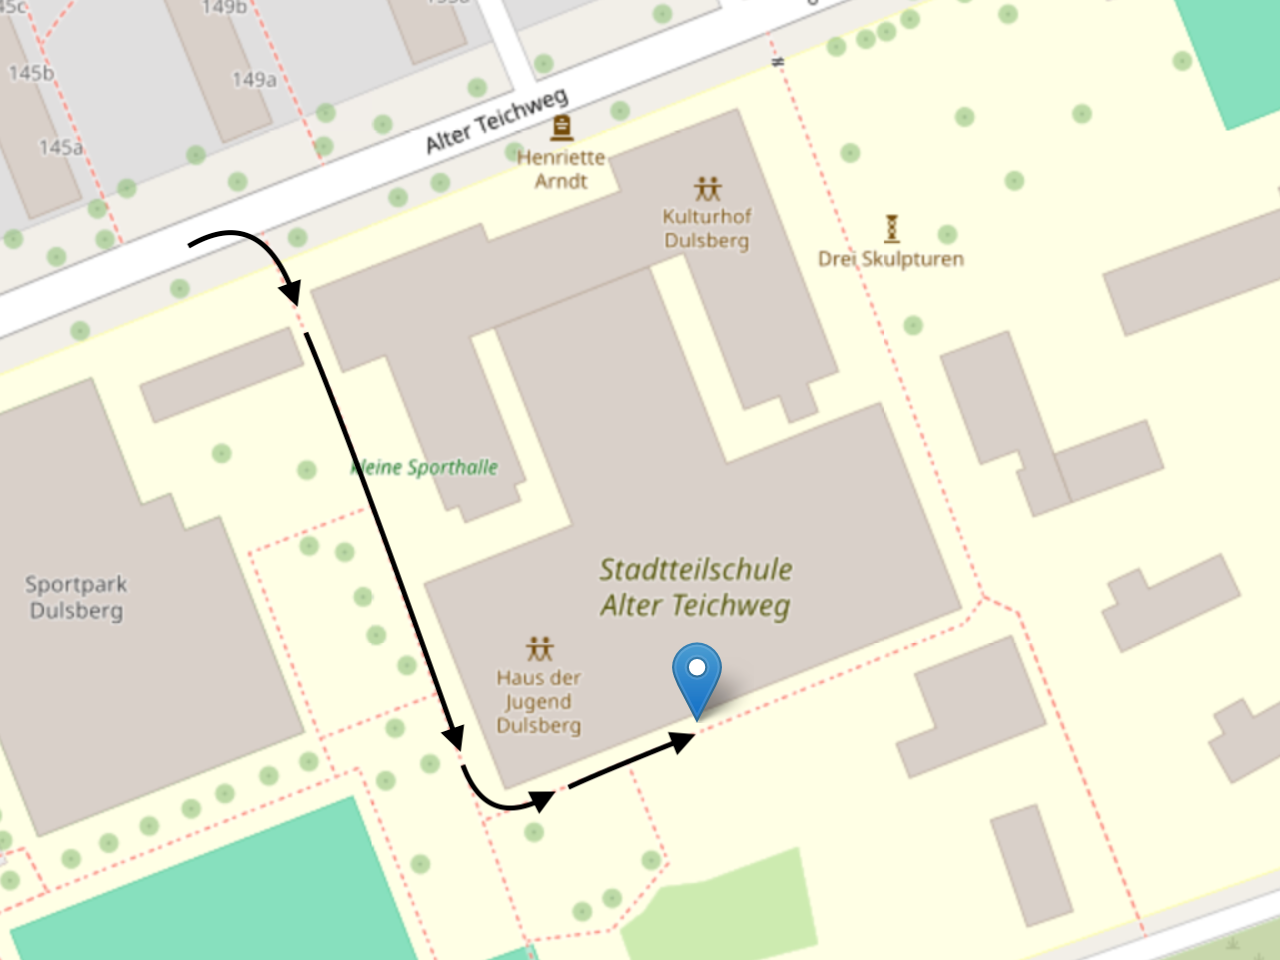
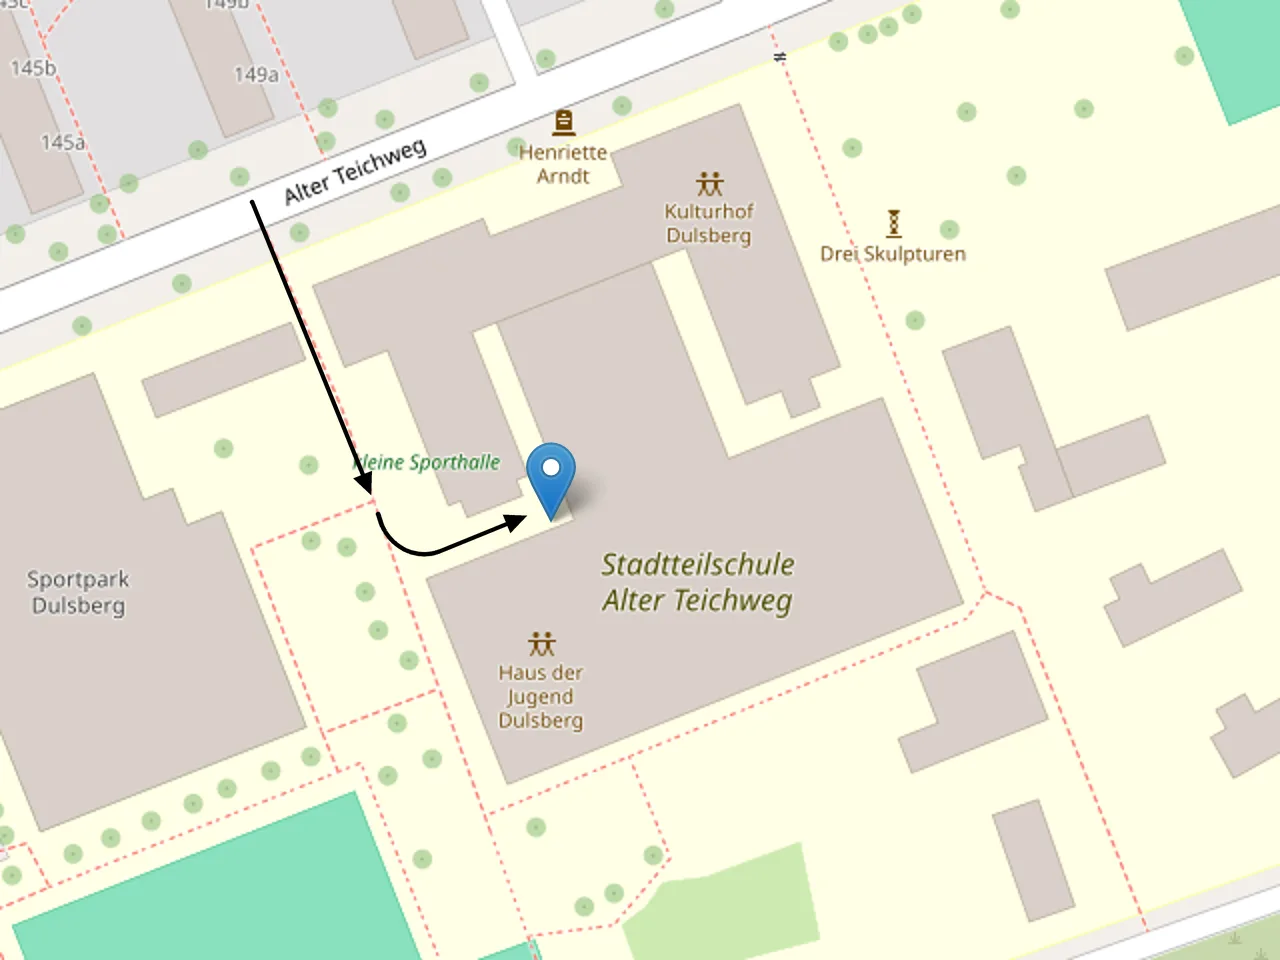
fix: update training location pin and route map
Move the OpenStreetMap pin to the new entrance and redraw the route
arrows on the map screenshot accordingly.

diff --git a/index.md b/index.md
@@ -14,7 +14,7 @@ Wir trainieren zweimal pro Woche für jeweils 90 Minuten:
 Alter Teichweg 200  
 22049 Hamburg
 
-[![Weg Info]({{ "/assets/images/weg.webp" | relative_url }})](https://www.openstreetmap.org/?mlat=53.58667&mlon=10.06984#map=17/53.58667/10.06984&layers=N)
+[![Weg Info]({{ "/assets/images/weg.webp" | relative_url }})](https://www.openstreetmap.org/?mlat=53.586980&mlon=10.069447#map=19/53.586980/10.069447&layers=N)
 
 Ein kostenloses Probetraining ist jederzeit möglich. Bitte [melde Dich vorher bei uns](/contact).
 
